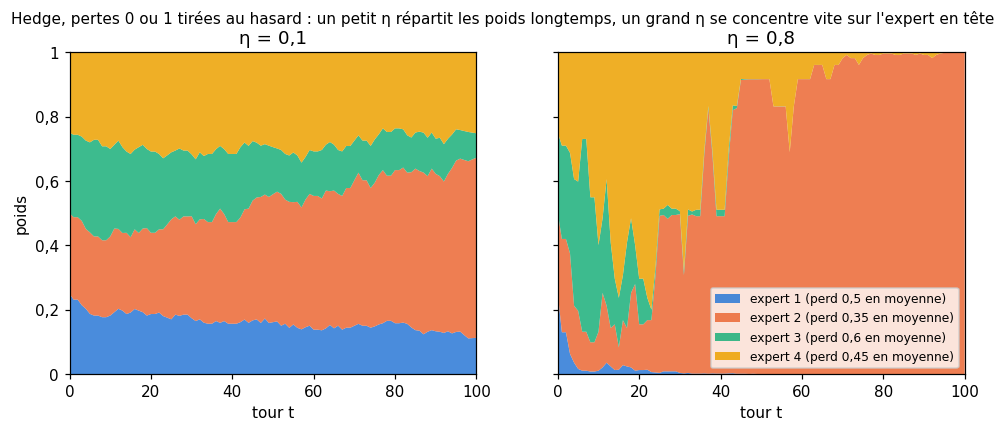
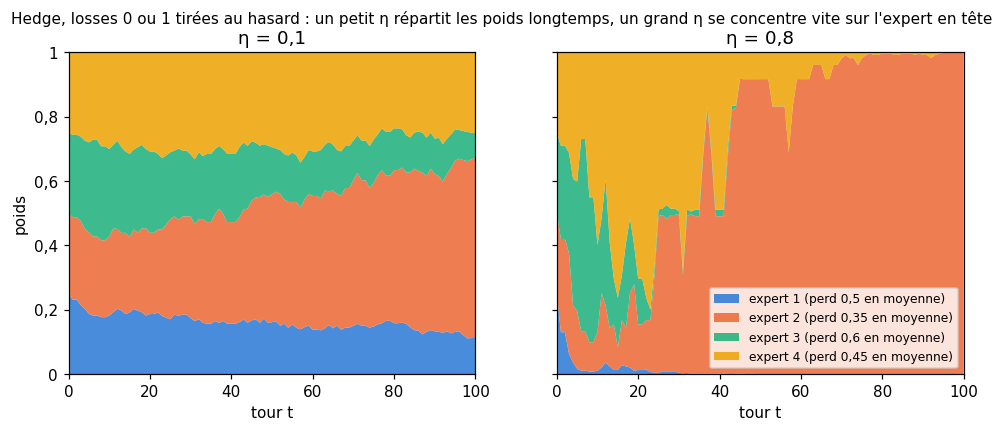
M14: terminologie de la fiche (loss)
Claude-Session: https://claude.ai/code/session_01Nzd2BLBqKp1WGBHcAcsxs2

diff --git a/tools/chapters/figures_m14.py b/tools/chapters/figures_m14.py
@@ -128,7 +128,7 @@ def hedge_weights() -> None:
         ax.set(xlabel="tour t", title=f"η = {french_number(eta)}", xlim=(0, T), ylim=(0, 1))
     axes[0].set_ylabel("poids")
     axes[1].legend(fontsize=8, loc="lower right")
-    fig.suptitle("Hedge, pertes 0 ou 1 tirées au hasard : un petit η répartit les poids longtemps, un grand η se "
+    fig.suptitle("Hedge, losses 0 ou 1 tirées au hasard : un petit η répartit les poids longtemps, un grand η se "
                  "concentre vite sur l'expert en tête", fontsize=10)
     save(fig, "hedge_poids.png")
 

diff --git a/chapitres/m14_ensembles/01_fiche.md b/chapitres/m14_ensembles/01_fiche.md
@@ -58,7 +58,7 @@ Vocabulaire anglais de ce chapitre : *ensemble (of models)*, *binomial tail*, *k
 4. $\mathbb{V}\big(\sum_i w_iX_i\big) = \sum_{i,j}w_iw_j\operatorname{Cov}(X_i, X_j) = \mathbf{w}^\top\boldsymbol{\Sigma}\mathbf{w}$ : les covariances comptent autant que les variances.
 5. Des prédictions indépendantes de même variance $\sigma^2$ : leur moyenne a la variance $\frac{\sigma^2}{M}$. Avec une **part commune**, la variance de la moyenne ne descend pas sous la variance de cette part : seule la **décorrélation** fait baisser ce plancher.
 6. $\left(1 + \frac{x}{n}\right)^n \to e^x$ pour tout réel $x$, car $n\ln\left(1 + \frac{x}{n}\right) \to x$ ; l'erreur relative vaut environ $-\frac{x^2}{2n}$.
-7. **Hedge** : $K$ experts, des pertes dans $[0, 1]$ ; avant le tour $t$, le poids de l'expert $k$ est proportionnel à $e^{-\eta L_t[k]}$, où $L_t[k]$ est sa perte cumulée. On retranche la plus petite perte cumulée avant l'exponentielle.
+7. **Hedge** : $K$ experts, des losses dans $[0, 1]$ ; avant le tour $t$, le poids de l'expert $k$ est proportionnel à $e^{-\eta L_t[k]}$, où $L_t[k]$ est sa loss cumulée. On retranche la plus petite loss cumulée avant l'exponentielle.
 8. **Regret** de Hedge : $R_T \le \frac{\ln K}{\eta} + \frac{\eta T}{8}$ ; avec $\eta = \sqrt{8\ln K/T}$, $R_T \le \sqrt{\frac{T\ln K}{2}}$, et le regret moyen tend vers 0.
 9. Le gradient d'une loss $\sum_i \ell(y_i, F_i)$ par rapport au **vecteur des prédictions** $\mathbf{F}$ a pour coordonnée $i$ la dérivée $\frac{\partial\ell}{\partial F}(y_i, F_i)$.
 10. Loss exponentielle $e^{-yF}$ : gradient $-y_ie^{-y_iF_i}$, des **poids exponentiels** sur les exemples mal classés ; loss de Huber : gradient borné par $\delta$, un point aberrant tire au plus avec la force $\delta$.
@@ -179,34 +179,34 @@ La suite **croît** vers $e^2$ ; l'approximation de l'erreur devient bonne dès 
 
 ### Prédire avec des experts
 
-$K$ **experts** (des modèles, des règles, des prévisionnistes) font chacun une prédiction à chaque tour. Au tour $t$, avant de voir le résultat, tu choisis une loi $\mathbf{w}_t$ sur les experts (tu suis l'expert $k$ avec la probabilité $w_t[k]$, ou tu mélanges leurs avis avec ces poids). Puis chaque expert reçoit une perte $\ell_t[k] \in [0, 1]$, et tu subis la perte moyenne $\mathbf{w}_t \cdot \boldsymbol{\ell}_t$. On ne suppose rien sur la façon dont les pertes sont produites : elles peuvent même être choisies contre toi.
+$K$ **experts** (des modèles, des règles, des prévisionnistes) font chacun une prédiction à chaque tour. Au tour $t$, avant de voir le résultat, tu choisis une loi $\mathbf{w}_t$ sur les experts (tu suis l'expert $k$ avec la probabilité $w_t[k]$, ou tu mélanges leurs avis avec ces poids). Puis chaque expert reçoit une loss $\ell_t[k] \in [0, 1]$, et tu subis la loss moyenne $\mathbf{w}_t \cdot \boldsymbol{\ell}_t$. On ne suppose rien sur la façon dont les losses sont produites : elles peuvent même être choisies contre toi.
 
-Ton **regret** après $T$ tours compare ta perte totale à celle du meilleur expert, choisi après coup :
+Ton **regret** après $T$ tours compare ta loss totale à celle du meilleur expert, choisi après coup :
 $$R_T = \sum_{t=1}^T \mathbf{w}_t \cdot \boldsymbol{\ell}_t - \min_k L_{T+1}[k], \qquad L_t[k] = \sum_{s < t}\ell_s[k].$$
-C'est le regret de M11, dans un cadre plus riche : en M11, on ne voyait que la récompense de l'option choisie (un bandit) ; ici, on voit les pertes de **tous** les experts (information complète, *full information*).
+C'est le regret de M11, dans un cadre plus riche : en M11, on ne voyait que la récompense de l'option choisie (un bandit) ; ici, on voit les losses de **tous** les experts (information complète, *full information*).
 
 ### Les poids exponentiels
 
-**Hedge** donne à chaque expert un poids qui décroît exponentiellement avec sa perte cumulée :
+**Hedge** donne à chaque expert un poids qui décroît exponentiellement avec sa loss cumulée :
 $$w_t[k] = \frac{e^{-\eta L_t[k]}}{\sum_{j=1}^K e^{-\eta L_t[j]}},$$
-avec un **learning rate** $\eta > 0$. Avant le premier tour, toutes les pertes cumulées sont nulles : les poids sont uniformes. D'un tour à l'autre, chaque poids est multiplié par $e^{-\eta\ell_t[k]}$, puis tous sont renormalisés (une mise à jour **multiplicative**).
+avec un **learning rate** $\eta > 0$. Avant le premier tour, toutes les losses cumulées sont nulles : les poids sont uniformes. D'un tour à l'autre, chaque poids est multiplié par $e^{-\eta\ell_t[k]}$, puis tous sont renormalisés (une mise à jour **multiplicative**).
 
-**Le calcul en pratique.** Pour de grandes pertes, tous les $e^{-\eta L_t[k]}$ deviennent 0 en flottants (*underflow*), et la normalisation divise 0 par 0. On retranche donc la plus petite perte cumulée, $L_t[k] - \min_j L_t[j]$, avant l'exponentielle : la normalisation annule ce facteur commun, et le meilleur expert garde l'exposant 0 (l'astuce de log-somme-exp, M04 et M05a).
+**Le calcul en pratique.** Pour de grandes losses, tous les $e^{-\eta L_t[k]}$ deviennent 0 en flottants (*underflow*), et la normalisation divise 0 par 0. On retranche donc la plus petite loss cumulée, $L_t[k] - \min_j L_t[j]$, avant l'exponentielle : la normalisation annule ce facteur commun, et le meilleur expert garde l'exposant 0 (l'astuce de log-somme-exp, M04 et M05a).
 
 **Exemple.** Trois experts, $\eta = 0{,}5$, quatre tours :
 
-| tour $t$ | pertes $\boldsymbol{\ell}_t$ | pertes cumulées avant $t$ | poids $\mathbf{w}_t$ | ta perte $\mathbf{w}_t \cdot \boldsymbol{\ell}_t$ |
+| tour $t$ | losses $\boldsymbol{\ell}_t$ | losses cumulées avant $t$ | poids $\mathbf{w}_t$ | ta loss $\mathbf{w}_t \cdot \boldsymbol{\ell}_t$ |
 |---|---|---|---|---|
 | 1 | $(0 ;\ 1 ;\ 0{,}5)$ | $(0 ;\ 0 ;\ 0)$ | $(0{,}333 ;\ 0{,}333 ;\ 0{,}333)$ | 0,5 |
 | 2 | $(1 ;\ 0 ;\ 0{,}5)$ | $(0 ;\ 1 ;\ 0{,}5)$ | $(0{,}419 ;\ 0{,}254 ;\ 0{,}327)$ | 0,583 |
 | 3 | $(0 ;\ 1 ;\ 0{,}5)$ | $(1 ;\ 1 ;\ 1)$ | $(0{,}333 ;\ 0{,}333 ;\ 0{,}333)$ | 0,5 |
 | 4 | $(0 ;\ 0 ;\ 1)$ | $(1 ;\ 2 ;\ 1{,}5)$ | $(0{,}419 ;\ 0{,}254 ;\ 0{,}327)$ | 0,327 |
 
-Au tour 2, $e^{-0{,}5 \times (0 ;\ 1 ;\ 0{,}5)} = (1 ;\ 0{,}607 ;\ 0{,}779)$, de somme $2{,}385$, d'où les poids. Ta perte totale vaut $\approx 1{,}909$ ; le meilleur expert, le premier, a perdu 1 en tout : le regret vaut $\approx 0{,}909$.
+Au tour 2, $e^{-0{,}5 \times (0 ;\ 1 ;\ 0{,}5)} = (1 ;\ 0{,}607 ;\ 0{,}779)$, de somme $2{,}385$, d'où les poids. Ta loss totale vaut $\approx 1{,}909$ ; le meilleur expert, le premier, a perdu 1 en tout : le regret vaut $\approx 0{,}909$.
 
 ### Le regret de Hedge
 
-> **Théorème.** Pour des pertes dans $[0, 1]$, Hedge de learning rate $\eta$ a, sur $T$ tours et pour toute suite de pertes, un regret
+> **Théorème.** Pour des losses dans $[0, 1]$, Hedge de learning rate $\eta$ a, sur $T$ tours et pour toute suite de losses, un regret
 > $$R_T \le \frac{\ln K}{\eta} + \frac{\eta T}{8}.$$
 
 <details><summary>L'idée de la démonstration (facultatif)</summary>
@@ -242,7 +242,7 @@ Pour des labels $y_i \in \{-1, +1\}$ et un score $F_i$, la **loss exponentielle*
 $$\frac{\partial}{\partial F}e^{-yF} = -y\,e^{-yF} :$$
 le gradient pousse chaque prédiction vers son label ($-y$), avec une force égale à la **loss actuelle** de l'exemple.
 
-**Exemple.** Quatre exemples, de labels $\mathbf{y} = (+1, -1, +1, -1)$ et de scores $\mathbf{F} = (0{,}5 ;\ 0{,}2 ;\ -1 ;\ -0{,}8)$. Les marges valent $0{,}5$, $-0{,}2$, $-1$ et $0{,}8$ ; les losses $e^{-yF}$, $0{,}607$, $1{,}221$, $2{,}718$ et $0{,}449$ ; le gradient, $(-0{,}607 ;\ 1{,}221 ;\ -2{,}718 ;\ 0{,}449)$. Normalisées, les losses donnent les poids $(0{,}121 ;\ 0{,}244 ;\ 0{,}544 ;\ 0{,}090)$ : l'exemple le plus mal classé (le troisième) pèse plus de la moitié. Ce sont des **poids exponentiels**, comme au §4, mais sur les **exemples**, avec la marge à la place de la perte cumulée.
+**Exemple.** Quatre exemples, de labels $\mathbf{y} = (+1, -1, +1, -1)$ et de scores $\mathbf{F} = (0{,}5 ;\ 0{,}2 ;\ -1 ;\ -0{,}8)$. Les marges valent $0{,}5$, $-0{,}2$, $-1$ et $0{,}8$ ; les losses $e^{-yF}$, $0{,}607$, $1{,}221$, $2{,}718$ et $0{,}449$ ; le gradient, $(-0{,}607 ;\ 1{,}221 ;\ -2{,}718 ;\ 0{,}449)$. Normalisées, les losses donnent les poids $(0{,}121 ;\ 0{,}244 ;\ 0{,}544 ;\ 0{,}090)$ : l'exemple le plus mal classé (le troisième) pèse plus de la moitié. Ce sont des **poids exponentiels**, comme au §4, mais sur les **exemples**, avec la marge à la place de la loss cumulée.
 
 ### La loss de Huber : une force bornée
 
@@ -268,8 +268,8 @@ Un pas de descente de gradient sur $\mathbf{F}$ serait $\mathbf{F} \leftarrow \m
 - **Oublier les covariances.** $\mathbb{V}(\sum w_iX_i) \ne \sum w_i^2\,\mathbb{V}(X_i)$ dès que les variables sont corrélées.
 - **$\frac{\sigma^2}{M}$ pour des modèles corrélés.** Moyenner ne réduit que la part propre des erreurs.
 - **$(1 + x/n)^n$ pour $n$ « grand ».** Il faut $n$ grand devant $x^2$.
-- **Des poids non renormalisés, ou qui débordent.** Divise par la somme ; retranche la plus petite perte cumulée avant l'exponentielle.
-- **Le signe dans l'exponentielle.** Le poids d'un expert est $e^{-\eta L}$ : une grande perte, un **petit** poids.
+- **Des poids non renormalisés, ou qui débordent.** Divise par la somme ; retranche la plus petite loss cumulée avant l'exponentielle.
+- **Le signe dans l'exponentielle.** Le poids d'un expert est $e^{-\eta L}$ : une grande loss, un **petit** poids.
 - **Le gradient par rapport à quoi ?** Aux prédictions $\mathbf{F}$ ici, pas aux paramètres.
 
 ## Et maintenant
